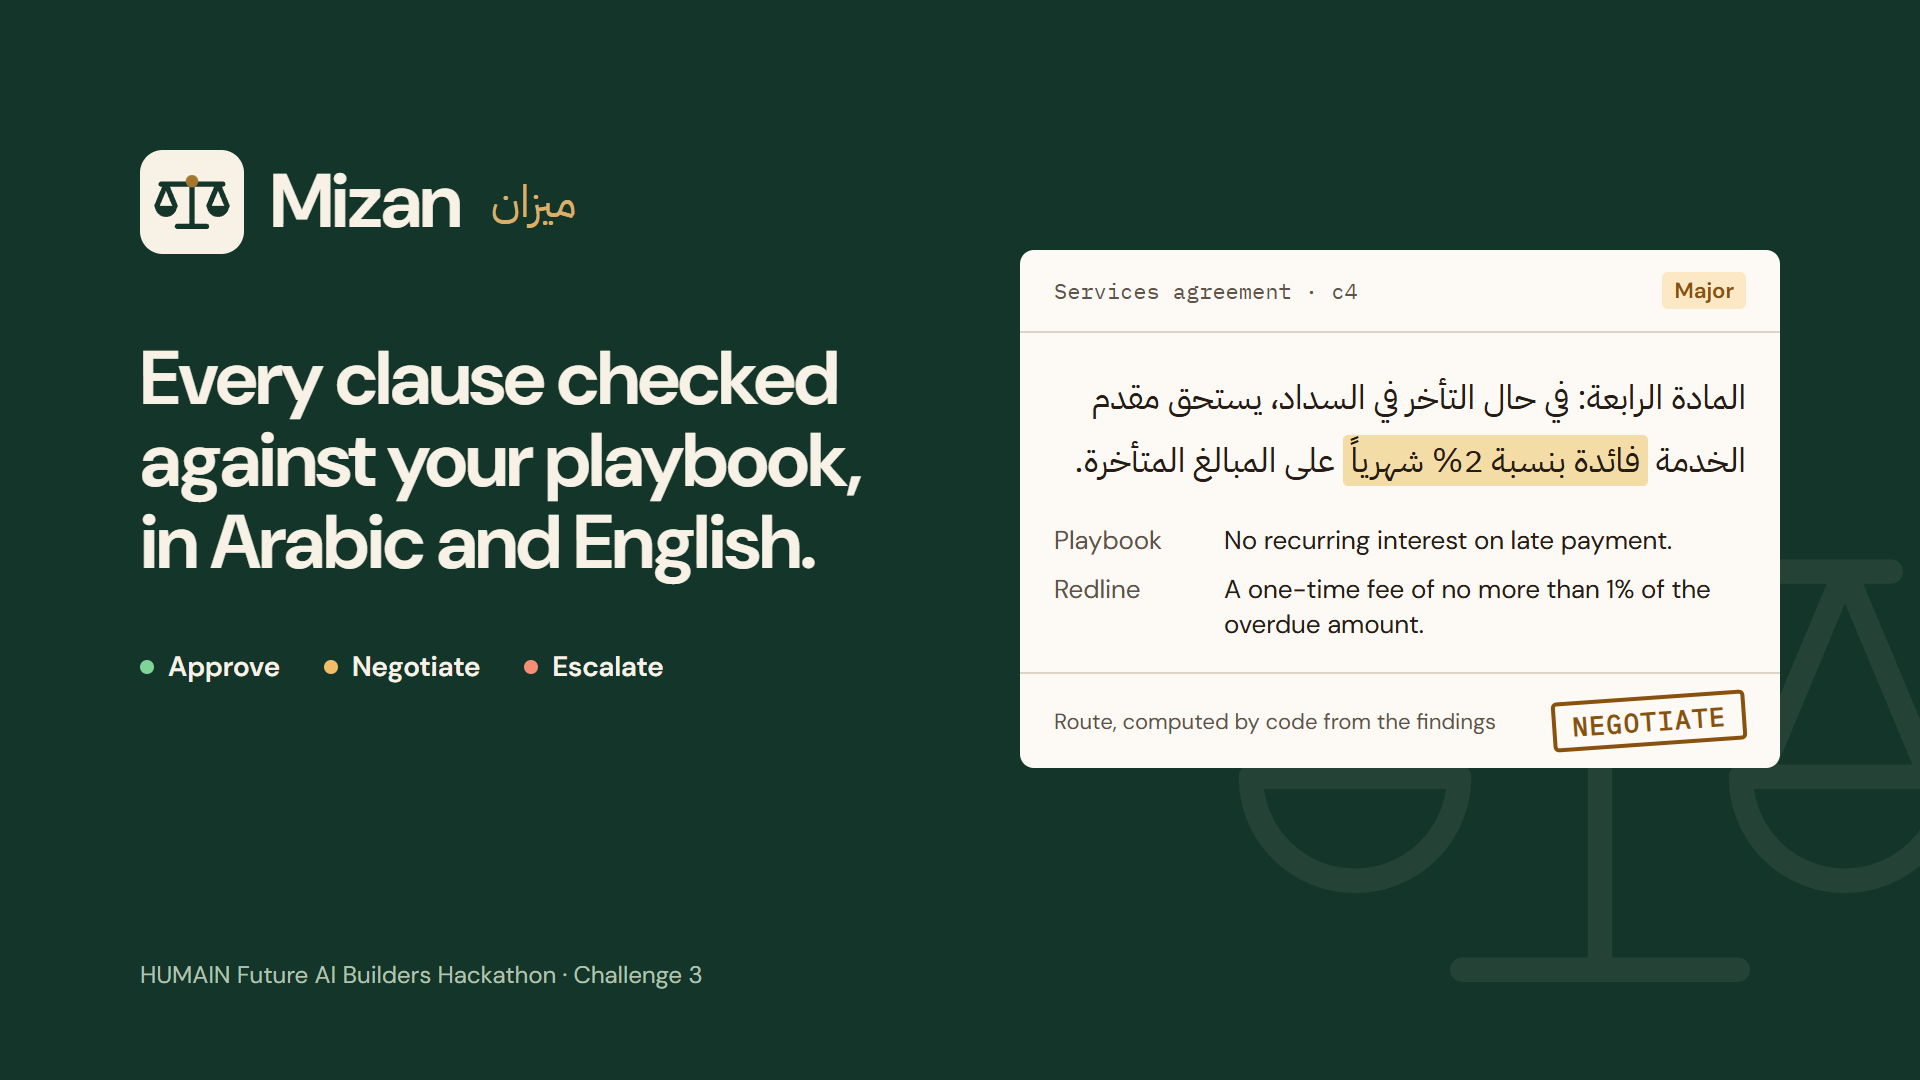
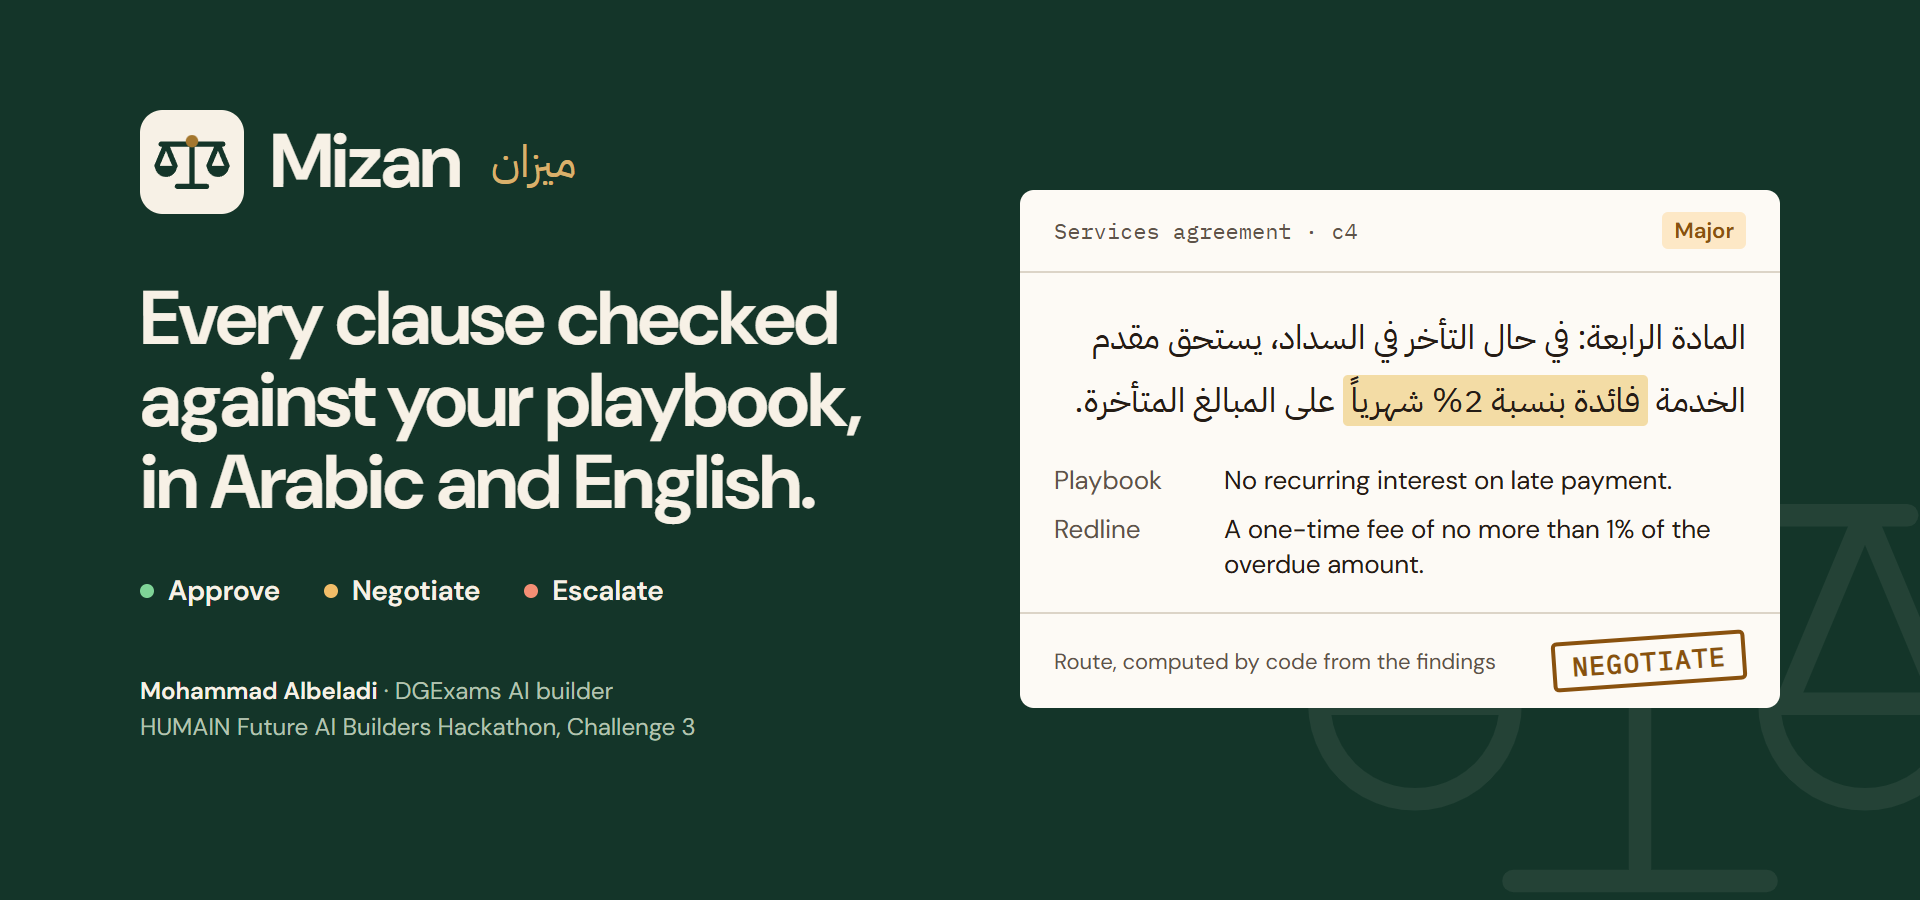
Submission: shorter cover with the author credit; the issue cites the grader
The background is 1920x900 so the form shows it whole, with "Mohammad Albeladi,
DGExams AI builder" under the routes. The issue ends with the first-hand example from
the SDAIA Academy capstone grader: a cheaper model cited quotes that did not exist in
22 of 61 submissions.

diff --git a/docs/submission/cover.html b/docs/submission/cover.html
@@ -1,5 +1,5 @@
 <!doctype html>
-<!-- The submission's background image (1920×1080). Render: node docs/submission/render-cover.mjs -->
+<!-- The submission's background image (1920×900, short enough to show whole on the form). Render: node docs/submission/render-cover.mjs -->
 <html lang="en">
 <head>
 <meta charset="utf-8">
@@ -23,19 +23,19 @@
   --negotiate-soft: oklch(0.94 0.05 80);
 }
 * { box-sizing: border-box; margin: 0; }
-html, body { width: 1920px; height: 1080px; overflow: hidden; }
+html, body { width: 1920px; height: 900px; overflow: hidden; }
 body { background: var(--ink); color: var(--ink-fg); font-family: "DM Sans", "Plex Arabic", sans-serif; position: relative; }
-.mark { position: absolute; right: -170px; bottom: -150px; width: 980px; height: 980px; opacity: 0.07; }
-.left { position: absolute; left: 140px; top: 150px; width: 820px; }
+.mark { position: absolute; right: -170px; bottom: -220px; width: 900px; height: 900px; opacity: 0.07; }
+.left { position: absolute; left: 140px; top: 110px; width: 820px; }
 .brand { display: flex; align-items: center; gap: 26px; }
 .brand .name { font-size: 76px; font-weight: 650; letter-spacing: -0.02em; line-height: 1; }
 .brand .ar { font-family: "Plex Arabic"; font-size: 44px; color: var(--brass); line-height: 1; margin-left: 4px; }
-h1 { max-width: 780px; margin-top: 84px; font-size: 76px; line-height: 1.08; font-weight: 650; letter-spacing: -0.025em; }
-.routes { margin-top: 64px; display: flex; gap: 44px; font-size: 28px; }
+h1 { max-width: 780px; margin-top: 64px; font-size: 76px; line-height: 1.08; font-weight: 650; letter-spacing: -0.025em; }
+.routes { margin-top: 48px; display: flex; gap: 44px; font-size: 28px; }
 .routes li { list-style: none; display: flex; align-items: center; gap: 14px; font-weight: 600; }
 .routes i { width: 14px; height: 14px; border-radius: 50%; display: inline-block; }
-.foot { position: absolute; left: 140px; bottom: 90px; font-size: 24px; color: var(--ink-muted); }
-.card { position: absolute; right: 140px; top: 250px; width: 760px; background: var(--paper); color: var(--fg);
+.foot { margin-top: 64px; font-size: 24px; color: var(--ink-muted); line-height: 1.5; }
+.card { position: absolute; right: 140px; top: 190px; width: 760px; background: var(--paper); color: var(--fg);
   border-radius: 14px; overflow: hidden; }
 .card .top, .card .bot { display: flex; justify-content: space-between; align-items: center; padding: 22px 34px;
   font-size: 22px; color: var(--muted-fg); }
@@ -79,6 +79,7 @@ dt { color: var(--muted-fg); }
       <li><i style="background:oklch(0.83 0.12 78)"></i>Negotiate</li>
       <li><i style="background:oklch(0.75 0.13 35)"></i>Escalate</li>
     </ul>
+    <div class="foot"><span style="color:var(--ink-fg); font-weight:600">Mohammad Albeladi</span> · DGExams AI builder<br>HUMAIN Future AI Builders Hackathon, Challenge 3</div>
   </div>
 
   <div class="card">
@@ -93,6 +94,6 @@ dt { color: var(--muted-fg); }
     <div class="bot"><span>Route, computed by code from the findings</span><span class="stamp mono">NEGOTIATE</span></div>
   </div>
 
-  <div class="foot">HUMAIN Future AI Builders Hackathon · Challenge 3</div>
+
 </body>
 </html>

diff --git a/docs/submission/FORM.md b/docs/submission/FORM.md
@@ -29,7 +29,7 @@ Challenge 3: Autonomous Enterprise
 
 Legal teams read every supplier contract by hand, and most of them are routine. Lawyers spend their time confirming that routine contracts are routine, while the risky ones look the same at a glance: an uncapped liability, a monthly late charge, personal data sent abroad. In Saudi Arabia these contracts arrive in Arabic, English or both, and often as scans.
 
-Automating review is easy. The hard part is automating it without the one mistake that costs the most: a confident approval of a contract a lawyer should have seen. Most tools leave that decision to the model.
+Automating review is easy. The hard part is automating it without the one mistake that costs the most: a confident approval of a contract a lawyer should have seen. Most tools leave that decision to the model. I have seen this first-hand: when my SDAIA Academy capstone grader moved to a cheaper model, it cited quotes that did not exist in the student's files in 22 of 61 submissions.
 
 ## Our solution
 
